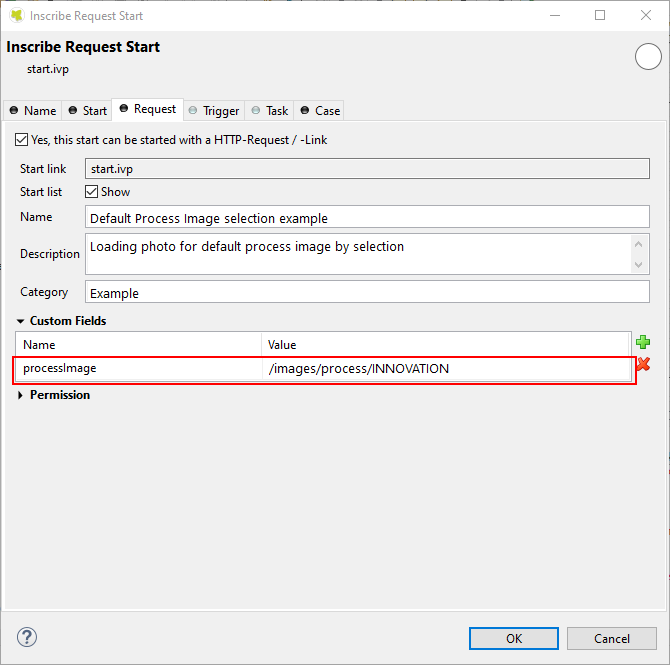
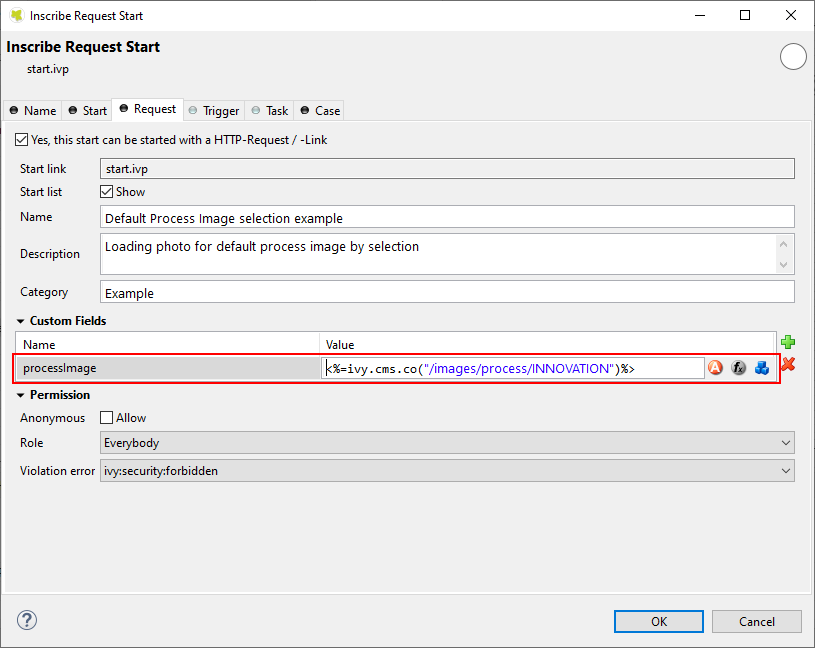
IVYPORTAL-12683 - Various or urgent requests in IVYPORTAL - S215 - IVYPORTAL-12798 - Process image of customization does not work correctly - fix and update document

diff --git a/AxonIvyPortal/PortalKit/src/ch/ivy/addon/portalkit/bean/ProcessWidgetBean.java b/AxonIvyPortal/PortalKit/src/ch/ivy/addon/portalkit/bean/ProcessWidgetBean.java
@@ -41,8 +41,6 @@ import ch.ivy.addon.portalkit.service.GlobalSettingService;
 import ch.ivy.addon.portalkit.service.ProcessStartCollector;
 import ch.ivy.addon.portalkit.util.IvyExecutor;
 import ch.ivy.addon.portalkit.util.PermissionUtils;
-import ch.ivyteam.ivy.application.IProcessModel;
-import ch.ivyteam.ivy.environment.Ivy;
 import ch.ivyteam.ivy.workflow.IProcessStart;
 import ch.ivyteam.ivy.workflow.start.IWebStartable;
 
@@ -53,7 +51,6 @@ public class ProcessWidgetBean extends AbstractProcessBean implements Serializab
   private static final long serialVersionUID = -5889375917550618261L;
   private static final String SPECIAL_CHARACTER_KEY = "SPECIAL_CHARACTER";
   private static final String DEFAULT_IMAGE_CMS_FOLDER = "/images/process/";
-  private static final int LAST_POSITION_OF_PROCESS_MODEL_NAME_IN_START_LINK = 3;
 
   private Process deletedProcess;
   private Process editedProcess;
@@ -169,42 +166,18 @@ public class ProcessWidgetBean extends AbstractProcessBean implements Serializab
   private void updateDefaultProcessImage(IvyProcess ivyProcess) {
     String customFieldProcessImage = ivyProcess.getCustomFieldImageProcess();
     if (StringUtils.isNotBlank(customFieldProcessImage)) {
-      String imageSrc = findProcessDefaultImageSrc(ivyProcess, customFieldProcessImage);
-      ivyProcess.setDefaultImageSrc(imageSrc);
+      String processImageSrc = getImageSrc(customFieldProcessImage);
+      ivyProcess.setDefaultImageSrc(processImageSrc);
       ivyProcess.setDefaultImageCms(StringUtils.EMPTY);
-      return;
-    }
-
-    if (!this.defaultImageType.equals(DefaultImage.DEFAULT.name())) {
+    } else if (!this.defaultImageType.equals(DefaultImage.DEFAULT.name())) {
       ivyProcess.setDefaultImageCms(DEFAULT_IMAGE_CMS_FOLDER + this.defaultImageType);
       ivyProcess.setDefaultImageSrc(StringUtils.EMPTY);
     }
   }
 
-  private String findProcessDefaultImageSrc(IvyProcess process, String processImage) {
-    if (process == null || StringUtils.isBlank(process.getStartLink())) {
-      return StringUtils.EMPTY;
-    }
-
-    String[] processParts = process.getStartLink().split(SLASH);
-    String processModelName = processParts[processParts.length - LAST_POSITION_OF_PROCESS_MODEL_NAME_IN_START_LINK];
-    return IvyExecutor.executeAsSystem(() -> {
-      return getDefaultImageUri(processModelName, processImage);
-    });
-  }
-
-  private String getDefaultImageUri(String processModelName, String processImage) {
-    String defaultImageUri = StringUtils.EMPTY;
-    IProcessModel pm = Ivy.wf().getApplication().findProcessModel(processModelName);
-    if (pm != null) {
-      defaultImageUri = Ivy.cms().getContentManagement().findCms(pm.getReleasedProcessModelVersion()).co(processImage);
-      if (StringUtils.isNotBlank(defaultImageUri)) {
-        int indexOfDefaultImageUri = defaultImageUri.indexOf("/cm");
-        defaultImageUri = defaultImageUri.substring(indexOfDefaultImageUri).replaceAll("\"/>", StringUtils.EMPTY);
-      }
-    }
-
-    return defaultImageUri;
+  private String getImageSrc(String imageElement) {
+    int indexOfImageSrc = imageElement.indexOf("/cm");
+    return imageElement.substring(indexOfImageSrc).replaceAll("\"/>", StringUtils.EMPTY);
   }
 
   public void editExpressWorkflow(ExpressProcess process) throws IOException {

diff --git a/Documentation/portal-guide/source/portal-developer-guide/customization/process-image.rst b/Documentation/portal-guide/source/portal-developer-guide/customization/process-image.rst
@@ -16,13 +16,14 @@ to override process image of Portal.
 Define your own process image
 -------------------------------------
 
-#. Create a CMS object with image type in your project
+#. Create a CMS object with image type in your project.
 
-#. Define a custom field ``processImage`` in :guilabel:`Custom Fields` of the process start. Value of this custom field is URI path of image CMS.
+#. Define a custom field ``processImage`` in :guilabel:`Custom Fields` of the process start.
+   Value of this custom field is CMS object which you created at first step.
 
    |define-process-image|
 
-#. Go to full process list page and search your customized process
+#. Go to full process list page and search your customized process.
 
    |image-process-list|
 
